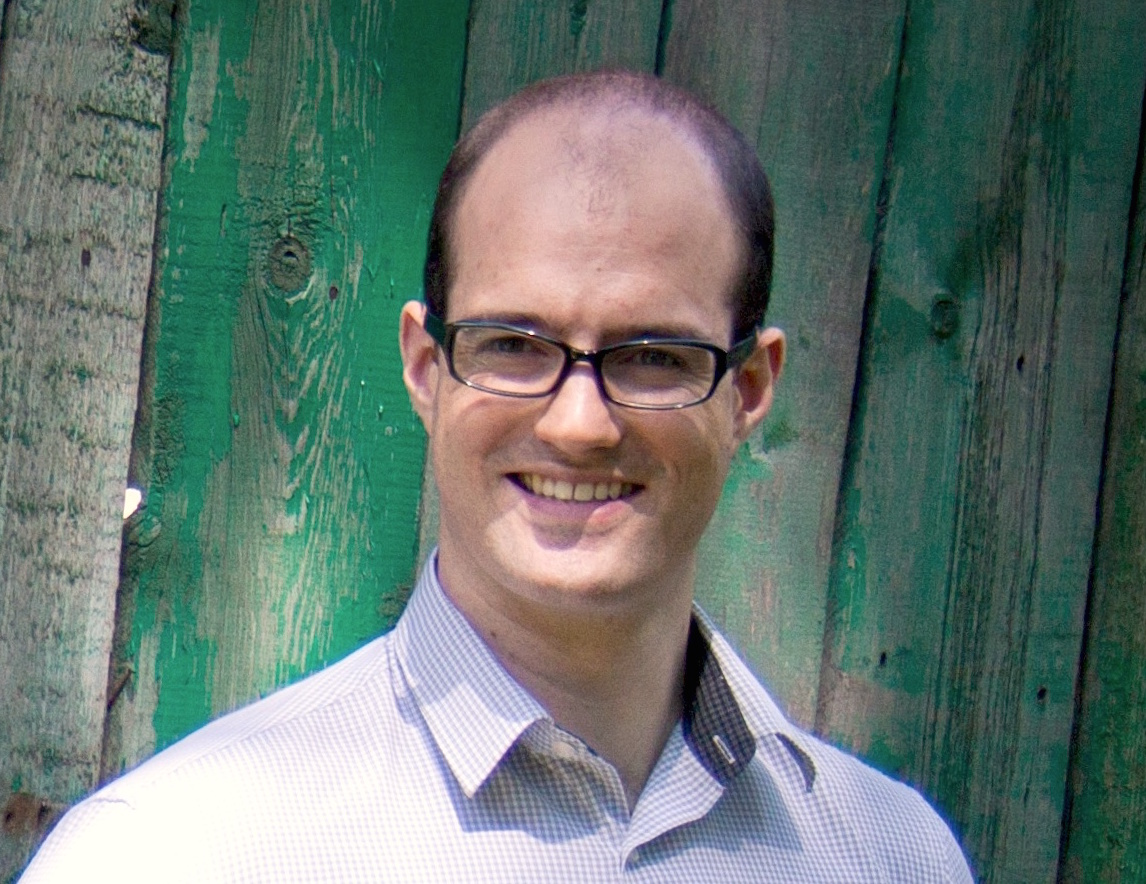
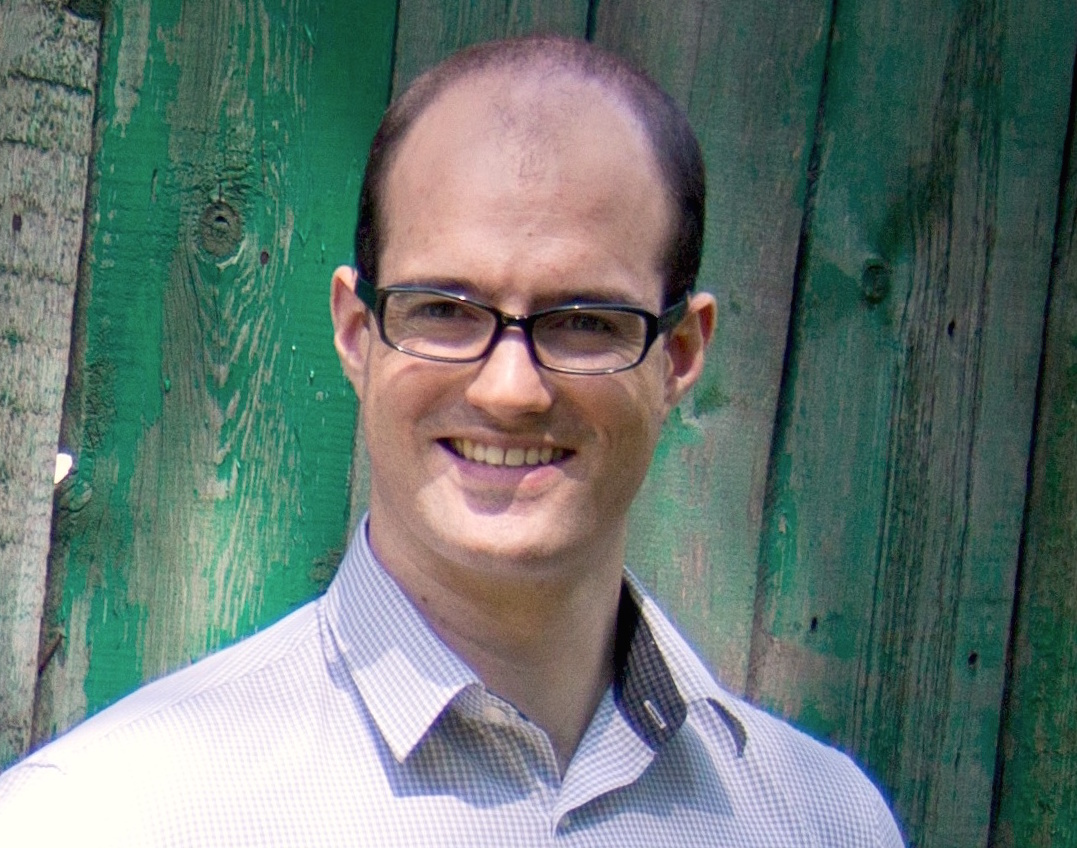
fix hope link and pic

diff --git a/index.html b/index.html
@@ -523,7 +523,7 @@
 </div>
   <div class="participant hope-mcleod">
   <div class="participant-image"></div>
-  <h3 class="participant-name"><a href="www.linkedin.com/in/hope-mcleod-65b95b137">Hope McLeod</a></h3>
+  <h3 class="participant-name"><a href="https://www.linkedin.com/in/hope-mcleod-65b95b137">Hope McLeod</a></h3>
   <p class="participant-affiliation"><a href="http://rladies.org/">R-Ladies</a></p>
 </div>
 
